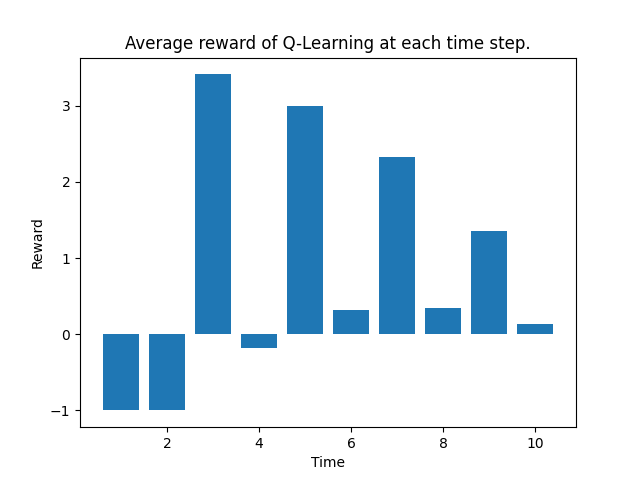
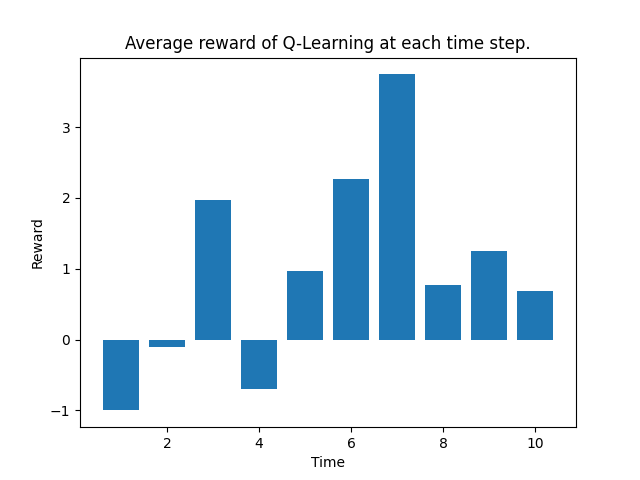
Made plots of monte-carlo. Made monte-carlo construction comply with standard used in TD and DP. Added info on monte-carlo to README.md. Made TD keep track of q-values across multiple runs of the algorithm. Note that the policy returned by this is a new Policy.

diff --git a/src/temporal_difference_policy.py b/src/temporal_difference_policy.py
@@ -12,14 +12,33 @@ def epsilon_greedy(q: dict[int, float], seed: int = None, epsilon: float = 0.5) 
 
 
 class TemporalDifferencePolicy(Policy):
+    """
+    Implementation of the Temporal Difference Learning algorithms. Both SARSA and Q-Learning are implemented here.
+    """
+
     class TemporalDifferenceAlgorithms(str, Enum):
         SARSA = "SARSA"
         QLearning = "QLearning"
 
-    def __init__(self, obs_space: gym.Space, act_space: gym.Space, *, algorithm: Optional[TemporalDifferenceAlgorithms | str] = None, **kwargs):
+    def __init__(self,
+                 obs_space: gym.Space,
+                 act_space: gym.Space, *,
+                 algorithm: Optional[TemporalDifferenceAlgorithms | str] = None,
+                 **kwargs):
+        """
+        Constructs the TemporalDifferencePolicy
+
+        @param obs_space: Observation space of the environment the policy describes.
+        @param act_space: Action space of the environment the policy describes.
+        @param algorithm: Optional, if given, calls specified algorithm with keyword arguments specified.
+        @param kwargs: Arguments used in the algorithm call.
+        """
         super().__init__(obs_space, act_space)
 
-        self.dp_functions = {
+        self.__q = {}
+        self.__reset()
+
+        self.td_functions = {
             self.TemporalDifferenceAlgorithms.SARSA: self.sarsa,
             self.TemporalDifferenceAlgorithms.QLearning: self.q_learning,
         }
@@ -32,14 +51,15 @@ class TemporalDifferencePolicy(Policy):
                 algorithm in self.__class__.TemporalDifferenceAlgorithms
             ), f"ValueError: algorithm must be one of {self.TemporalDifferenceAlgorithms.__members__.keys()}"
 
-            self._policy = self.dp_functions[algorithm](**kwargs)
+            self._policy = self.td_functions[algorithm](**kwargs)
 
     def sarsa(self,
               env: gym.Env,
               n_episodes: int,
               alpha: float = 0.5,
               gamma: float = 0.9,
-              policy_func: Callable[[dict[int, float]], int] = epsilon_greedy
+              policy_func: Callable[[dict[int, float]], int] = epsilon_greedy,
+              reset: bool = True
               ) -> Policy:
         """
         Uses the State-Action-Reward-State-Action (SARSA) to update the value function over the course of a number
@@ -50,65 +70,86 @@ class TemporalDifferencePolicy(Policy):
         @param alpha: Learning rate.
         @param gamma: Discount.
         @param policy_func: Function mapping a dictionary of actions mapping to values to an action.
+        @param reset: Should the state-action value function be reset at the start of the algorithm.
         @return: A policy constructed based on the value function, computed from it using policy_func.
         """
         assert env.action_space == self._act_space and env.observation_space == self._obs_space, \
             "Environment does not match provided action or observation space."
 
-        # Initialise Q(S, A)
-        q = {(key, action): 0.0 for key in self for action in self._all_actions }
+        if reset:
+            self.__reset()
 
         for episode_n in range(n_episodes):
             obs, _ = env.reset()
             obs = self._obs_to_tuple(obs)
 
-            action = policy_func(self._action_to_value(q, obs))
+            action = policy_func(self._action_to_value(self.__q, obs))
             terminal, truncated = False, False
 
+            # Train over an episode
             while not (terminal or truncated):
                 new_obs, reward, terminal, truncated, _ = env.step(action)
                 new_obs = self._obs_to_tuple(new_obs)
 
-                new_action = policy_func(self._action_to_value(q, obs))
+                new_action = policy_func(self._action_to_value(self.__q, obs))
 
                 # Update q
-                q[obs, action] += alpha * (reward + gamma * q[new_obs, new_action] - q[obs, action])
+                self.__q[obs, action] += alpha * (reward + gamma * self.__q[new_obs, new_action] - self.__q[obs, action])
 
                 action, obs = new_action, new_obs
 
-        return self._greedy_policy_from_q(q)
+        # Compute greedy policy on value function.
+        return self._greedy_policy_from_q(self.__q)
 
 
     def q_learning(self,
-              env: gym.Env,
-              n_episodes: int,
-              alpha: float = 0.5,
-              gamma: float = 0.9,
-              policy_func: Callable[[dict[int, float]], int] = epsilon_greedy
+                   env: gym.Env,
+                   n_episodes: int,
+                   alpha: float = 0.5,
+                   gamma: float = 0.9,
+                   policy_func: Callable[[dict[int, float]], int] = epsilon_greedy,
+                   reset: bool = True
               ) -> Policy:
+        """
+        Uses the Q-Learning algorithm to update the value function over the course of a number
+        of episodes.
+
+        @param env: Environment for which the algorithm should learn the policy.
+        @param n_episodes: Number of episodes the algorithm should execute before convergence is assumed.
+        @param alpha: Learning rate.
+        @param gamma: Discount.
+        @param policy_func: Function mapping a dictionary of actions mapping to values to an action.
+        @param reset: Should the state-action value function be reset at the start of the algorithm.
+        @return: A policy constructed based on the value function, computed from it using policy_func.
+        """
 
         assert env.action_space == self._act_space and env.observation_space == self._obs_space, \
             "Environment does not match provided action or observation space."
 
-        q = {(key, action): 0.0 for key in self for action in self._all_actions }
+        if reset:
+            self.__reset()
 
         for episode_n in range(n_episodes):
             obs, _ = env.reset()
             obs = self._obs_to_tuple(obs)
 
-            while True:
+            terminal, truncated = False, False
 
-                action = policy_func(self._action_to_value(q, obs))
+            # Learn over an episode
+            while not (terminal or truncated):
+                action = policy_func(self._action_to_value(self.__q, obs))
 
                 new_obs, reward, terminal, truncated, _ = env.step(action)
                 new_obs = self._obs_to_tuple(new_obs)
 
-                max_q_value = max(self._action_to_value(q, new_obs).values())
-                q[obs, action] += alpha * (reward + gamma * max_q_value - q[obs, action])
+                max_q_value = max(self._action_to_value(self.__q, new_obs).values())
+                self.__q[obs, action] += alpha * (reward + gamma * max_q_value - self.__q[obs, action])
 
                 obs = new_obs
 
-                if terminal or truncated:
-                    break
+        # Compute greedy policy on value function.
+        return self._greedy_policy_from_q(self.__q)
 
-        return self._greedy_policy_from_q(q)
+    def __reset(self) -> None:
+        """Resets the state-action value function back to 0 for all state-action pairs."""
+        self.__q = {(key, action): 0.0 for key in self for action in self._all_actions }

diff --git a/src/data_collection.py b/src/data_collection.py
@@ -5,14 +5,15 @@ import gymnasium as gym
 from gymnasium.utils.env_checker import check_env
 from dynamic_programming_policy import DynamicProgrammingPolicy
 from policy import Policy
+from src.monte_carlo_policy import MonteCarloPolicy
 from temporal_difference_policy import TemporalDifferencePolicy
-from typing import Any
+from typing import Any, Optional
 from gymnasium.wrappers import TimeLimit
 import matplotlib.pyplot as plt
 
 
 def plot_rewards_over_time(env: gym.Env, policy: Policy, n_episodes: int, plot_save_path: str, algorithm_name: str,
-                           max_steps: int = 10, options: dict[str, Any] = None):
+                           max_steps: int = 10, options: dict[str, Any] = None, seed: Optional[int] = None):
     """
     Plots mean of the rewards obtained by a policy over time.
 
@@ -22,12 +23,15 @@ def plot_rewards_over_time(env: gym.Env, policy: Policy, n_episodes: int, plot_s
     @param plot_save_path: Path where the plot is saved.
     @param algorithm_name: Name of the algorithm used to create the policy.
     @param max_steps: Maximum number of steps before truncating the episode.
+    @param seed: Random seed, optional.
     @param options: Environment options given to it in env.reset().
     """
+    rng = np.random.default_rng(seed)
+
     env = TimeLimit(env, max_episode_steps=max_steps)
     data = np.zeros((n_episodes, max_steps))
     for i in range(n_episodes):
-        _, _, rewards, _, _ = PolicyAgent.sample_episode(env, policy, reset_options=options)
+        _, _, rewards, _, _ = PolicyAgent.sample_episode(env, policy, reset_options=options, seed=int(rng.integers(low=0, high=1000000)))
         rewards += tuple(0 for _ in range(max_steps - len(rewards)))
         data[i, :] = np.array(rewards)
 
@@ -53,7 +57,7 @@ if __name__ == "__main__":
 
     plot_rewards_over_time(board, random_policy, n_episodes=1000,
                            plot_save_path="../plots/r_over_time/random_policy_r_over_time.png", options=options,
-                           algorithm_name="Random Policy")
+                           algorithm_name="Random Policy", seed=0)
 
     # Dynamic Programming
     value_iteration = DynamicProgrammingPolicy(
@@ -62,7 +66,7 @@ if __name__ == "__main__":
 
     plot_rewards_over_time(board, value_iteration, n_episodes=1000,
                            plot_save_path="../plots/r_over_time/value_iteration_r_over_time.png", options=options,
-                           algorithm_name="Value Iteration")
+                           algorithm_name="Value Iteration", seed=0)
 
     policy_iteration = DynamicProgrammingPolicy(
         board, algorithm="PolicyIteration", discount=0.9, stopping_criterion=0.00000001
@@ -70,9 +74,17 @@ if __name__ == "__main__":
 
     plot_rewards_over_time(board, policy_iteration, n_episodes=1000,
                            plot_save_path="../plots/r_over_time/policy_iteration_r_over_time.png", options=options,
-                           algorithm_name="Policy Iteration")
+                           algorithm_name="Policy Iteration", seed=0)
 
     # Monte Carlo goes here
+    monte_carlo = MonteCarloPolicy(
+        board.observation_space, board.action_space, algorithm="FirstVisitEpsilonGreedy", env=board, n_episodes=1000,
+        gamma=0.9, epsilon=0.3
+       )
+
+    plot_rewards_over_time(board, policy_iteration, n_episodes=1000,
+                           plot_save_path="../plots/r_over_time/monte_carlo_r_over_time.png", options=options,
+                           algorithm_name="First Visit Epsilon Greedy Monte Carlo", seed=0)
 
     # Temporal Difference Learning
     sarsa = TemporalDifferencePolicy(board.observation_space, board.action_space, algorithm="SARSA", env=board,
@@ -80,14 +92,14 @@ if __name__ == "__main__":
 
     plot_rewards_over_time(board, sarsa, n_episodes=1000,
                            plot_save_path="../plots/r_over_time/sarsa_r_over_time.png", options=options,
-                           algorithm_name="SARSA")
+                           algorithm_name="SARSA", seed=0)
 
     q_learning = TemporalDifferencePolicy(board.observation_space, board.action_space, algorithm="QLearning", env=board,
                                           n_episodes=1000, alpha=0.5, gamma=0.9)
 
     plot_rewards_over_time(board, sarsa, n_episodes=1000,
                            plot_save_path="../plots/r_over_time/q_learning_r_over_time.png", options=options,
-                           algorithm_name="Q-Learning")
+                           algorithm_name="Q-Learning", seed=0)
 
     # Deep Q Learning, note the model is not trained here, so this file does not take centuries to run.
     agent = DeepQLearningAgent.load(board, "../policies/model.pt")
@@ -99,5 +111,4 @@ if __name__ == "__main__":
 
     plot_rewards_over_time(board, deep_q_policy, n_episodes=1000,
                            plot_save_path="../plots/r_over_time/deep_q_learning_r_over_time.png", options=options,
-                           algorithm_name="Deep Q-Learning")
-
+                           algorithm_name="Deep Q-Learning", seed=0)

diff --git a/src/monte_carlo_policy.py b/src/monte_carlo_policy.py
@@ -1,8 +1,9 @@
 from policy import Policy
 import gymnasium as gym
-from typing import List, Tuple
+from typing import List, Tuple, Optional
 from action_sampler import ActionSampler
 from gymnasium.core import ActType, ObsType
+from enum import Enum
 
 
 class MonteCarloPolicy(Policy):
@@ -10,8 +11,15 @@ class MonteCarloPolicy(Policy):
     Implements On-Policy MC Prediction and Control without exploring starts, using First-Visit Monte-Carlo prediction
     and epsilon-greedy Monte-Carlo control.
     """
+    class MonteCarloAlgorithms(str, Enum):
+        FIRST_VISIT_EPSILON_GREEDY = "FirstVisitEpsilonGreedy"
 
-    def __init__(self, obs_space: ObsType, act_space: ActType, policy: dict = None):
+    def __init__(self,
+                 obs_space: ObsType,
+                 act_space: ActType,
+                 policy: dict = None,
+                 algorithm: Optional[MonteCarloAlgorithms | str] = None,
+                 **kwargs):
         """
         Constructs the MonteCarloPolicy.
 
@@ -23,10 +31,24 @@ class MonteCarloPolicy(Policy):
         self.__all_q, self.__returns = {}, {}
         self.__reset()
 
+        self.mc_functions = {
+            self.MonteCarloAlgorithms.FIRST_VISIT_EPSILON_GREEDY: self.first_visit_monte_carlo_control,
+        }
+
+        if algorithm:
+            assert isinstance(
+                algorithm, (self.MonteCarloAlgorithms, str)
+            ), f"TypeError: algorithm must be of type DynamicProgrammingAlgorithms or str. Got: {type(algorithm)}"
+            assert (
+                algorithm in self.__class__.MonteCarloAlgorithms
+            ), f"ValueError: algorithm must be one of {self.MonteCarloAlgorithms.__members__.keys()}"
+
+            self._policy = self.mc_functions[algorithm](**kwargs)
+
     def first_visit_monte_carlo_control(self,
                                         env: gym.Env,
-                                        episode_n: int = 100,
-                                        discount: float = 0.5,
+                                        n_episodes: int = 100,
+                                        gamma: float = 0.5,
                                         epsilon: float = 0.5,
                                         reset: bool = True
                                         ) -> 'MonteCarloPolicy':
@@ -34,8 +56,8 @@ class MonteCarloPolicy(Policy):
         Finds the policy using Monte Carlo method in n episodes.
 
         @param env: Environment for which the policy is found.
-        @param episode_n: Number of episodes to run the Monte Carlo method.
-        @param discount: Discount factor.
+        @param n_episodes: Number of episodes to run the Monte Carlo method.
+        @param gamma: Discount factor.
         @param epsilon: The probability the optimal action will be picked.
         @param reset: Should q and returns be reinitialised? Default is True.
         @return: Found policy.
@@ -43,7 +65,7 @@ class MonteCarloPolicy(Policy):
         if reset:
             self.__reset()
 
-        for i in range(episode_n):
+        for i in range(n_episodes):
             obs, _ = env.reset()
             obs = self._obs_to_tuple(obs)
             episode = []
@@ -65,7 +87,7 @@ class MonteCarloPolicy(Policy):
                 obs = new_obs
 
             # Does first visit for q on an episode
-            self.__first_visit(episode, discount, epsilon)
+            self.__first_visit(episode, gamma, epsilon)
 
         return self
 

diff --git a/src/main.py b/src/main.py
@@ -2,7 +2,7 @@ from agent import RandomAgent, HumanAgent, PolicyAgent
 from deep_qlearning import DeepQLearningAgent, get_data_and_train, RLData
 import numpy as np
 import gymnasium as gym
-from gymnasium.utils.env_checker import check_env
+from monte_carlo_policy import MonteCarloPolicy
 from dynamic_programming_policy import DynamicProgrammingPolicy
 from policy import Policy
 from temporal_difference_policy import TemporalDifferencePolicy

diff --git a/README.md b/README.md
@@ -1,5 +1,7 @@
+from src.monte_carlo_policy import MonteCarloPolicyfrom src.monte_carlo_policy import MonteCarloPolicy
+
 # Reinforcement Learning Project
-### By Ella Kemperman, Ioana-Anastasia Orasanu, Rostyslov, and Mila van Rijsbergen
+### By Ella Kemperman, Ioana-Anastasia Orasanu, Rostyslav Redchyts, and Mila van Rijsbergen
 This project contains a variety of algorithms used in reinforcement learning, such as Policy Iteration, Value Iteration,
 Monte-Carlo Methods, Q-Learning, SARSA, and Deep Q-Learning. These algorithms are used by an agent in a custom 
 [gymnasium](https://gymnasium.farama.org/) environment, in which the agent is a cat attempting to catch a mouse. The cat
@@ -61,7 +63,7 @@ Methods of choosing a dynamic programming policy:
 2. By specifying the 'algorithm' argument of the instance of DynamicProgrammingPolicy
     ```python
    p = DynamicProgrammingPolicy(
-        board, algorithm="ValueIteration", discount=0.1, stopping_criterion=20
+        board, algorithm="ValueIteration", discount=0.1, stopping_criterion=0.001
     )
    ```
 
@@ -72,7 +74,23 @@ Methods of choosing a dynamic programming policy:
     
 
 Methods of choosing a Monte-Carlo policy:
-
+1. By loading a saved policy
+    ```python
+    p = Policy.load(board, "../policies/monte_carlo_policy.json")
+    ```
+   
+2. By specifying the 'algorithm' argument of the instance of TemporalDifferencePolicy, and the keyword arguments
+   required.
+    ```python
+   p = MonteCarloPolicy(
+       board.observation_space, board.action_space, algorithm="FirstVisitEpsilonGreedy", env=board, n_episodes=1000, gamma=0.9, epsilon=0.3
+       )
+    ```
+   
+3. By calling the corresponding method of the to-be-used algorithm on an instance of TemporalDifferencePolicy:
+    ```python
+    p = MonteCarloPolicy(board.observation_space, board.action_space).first_visit_monte_carlo_control(board, n_episodes=1000)
+   ```
 
 Methods of creating a Temporal Difference Learning policy:
 
